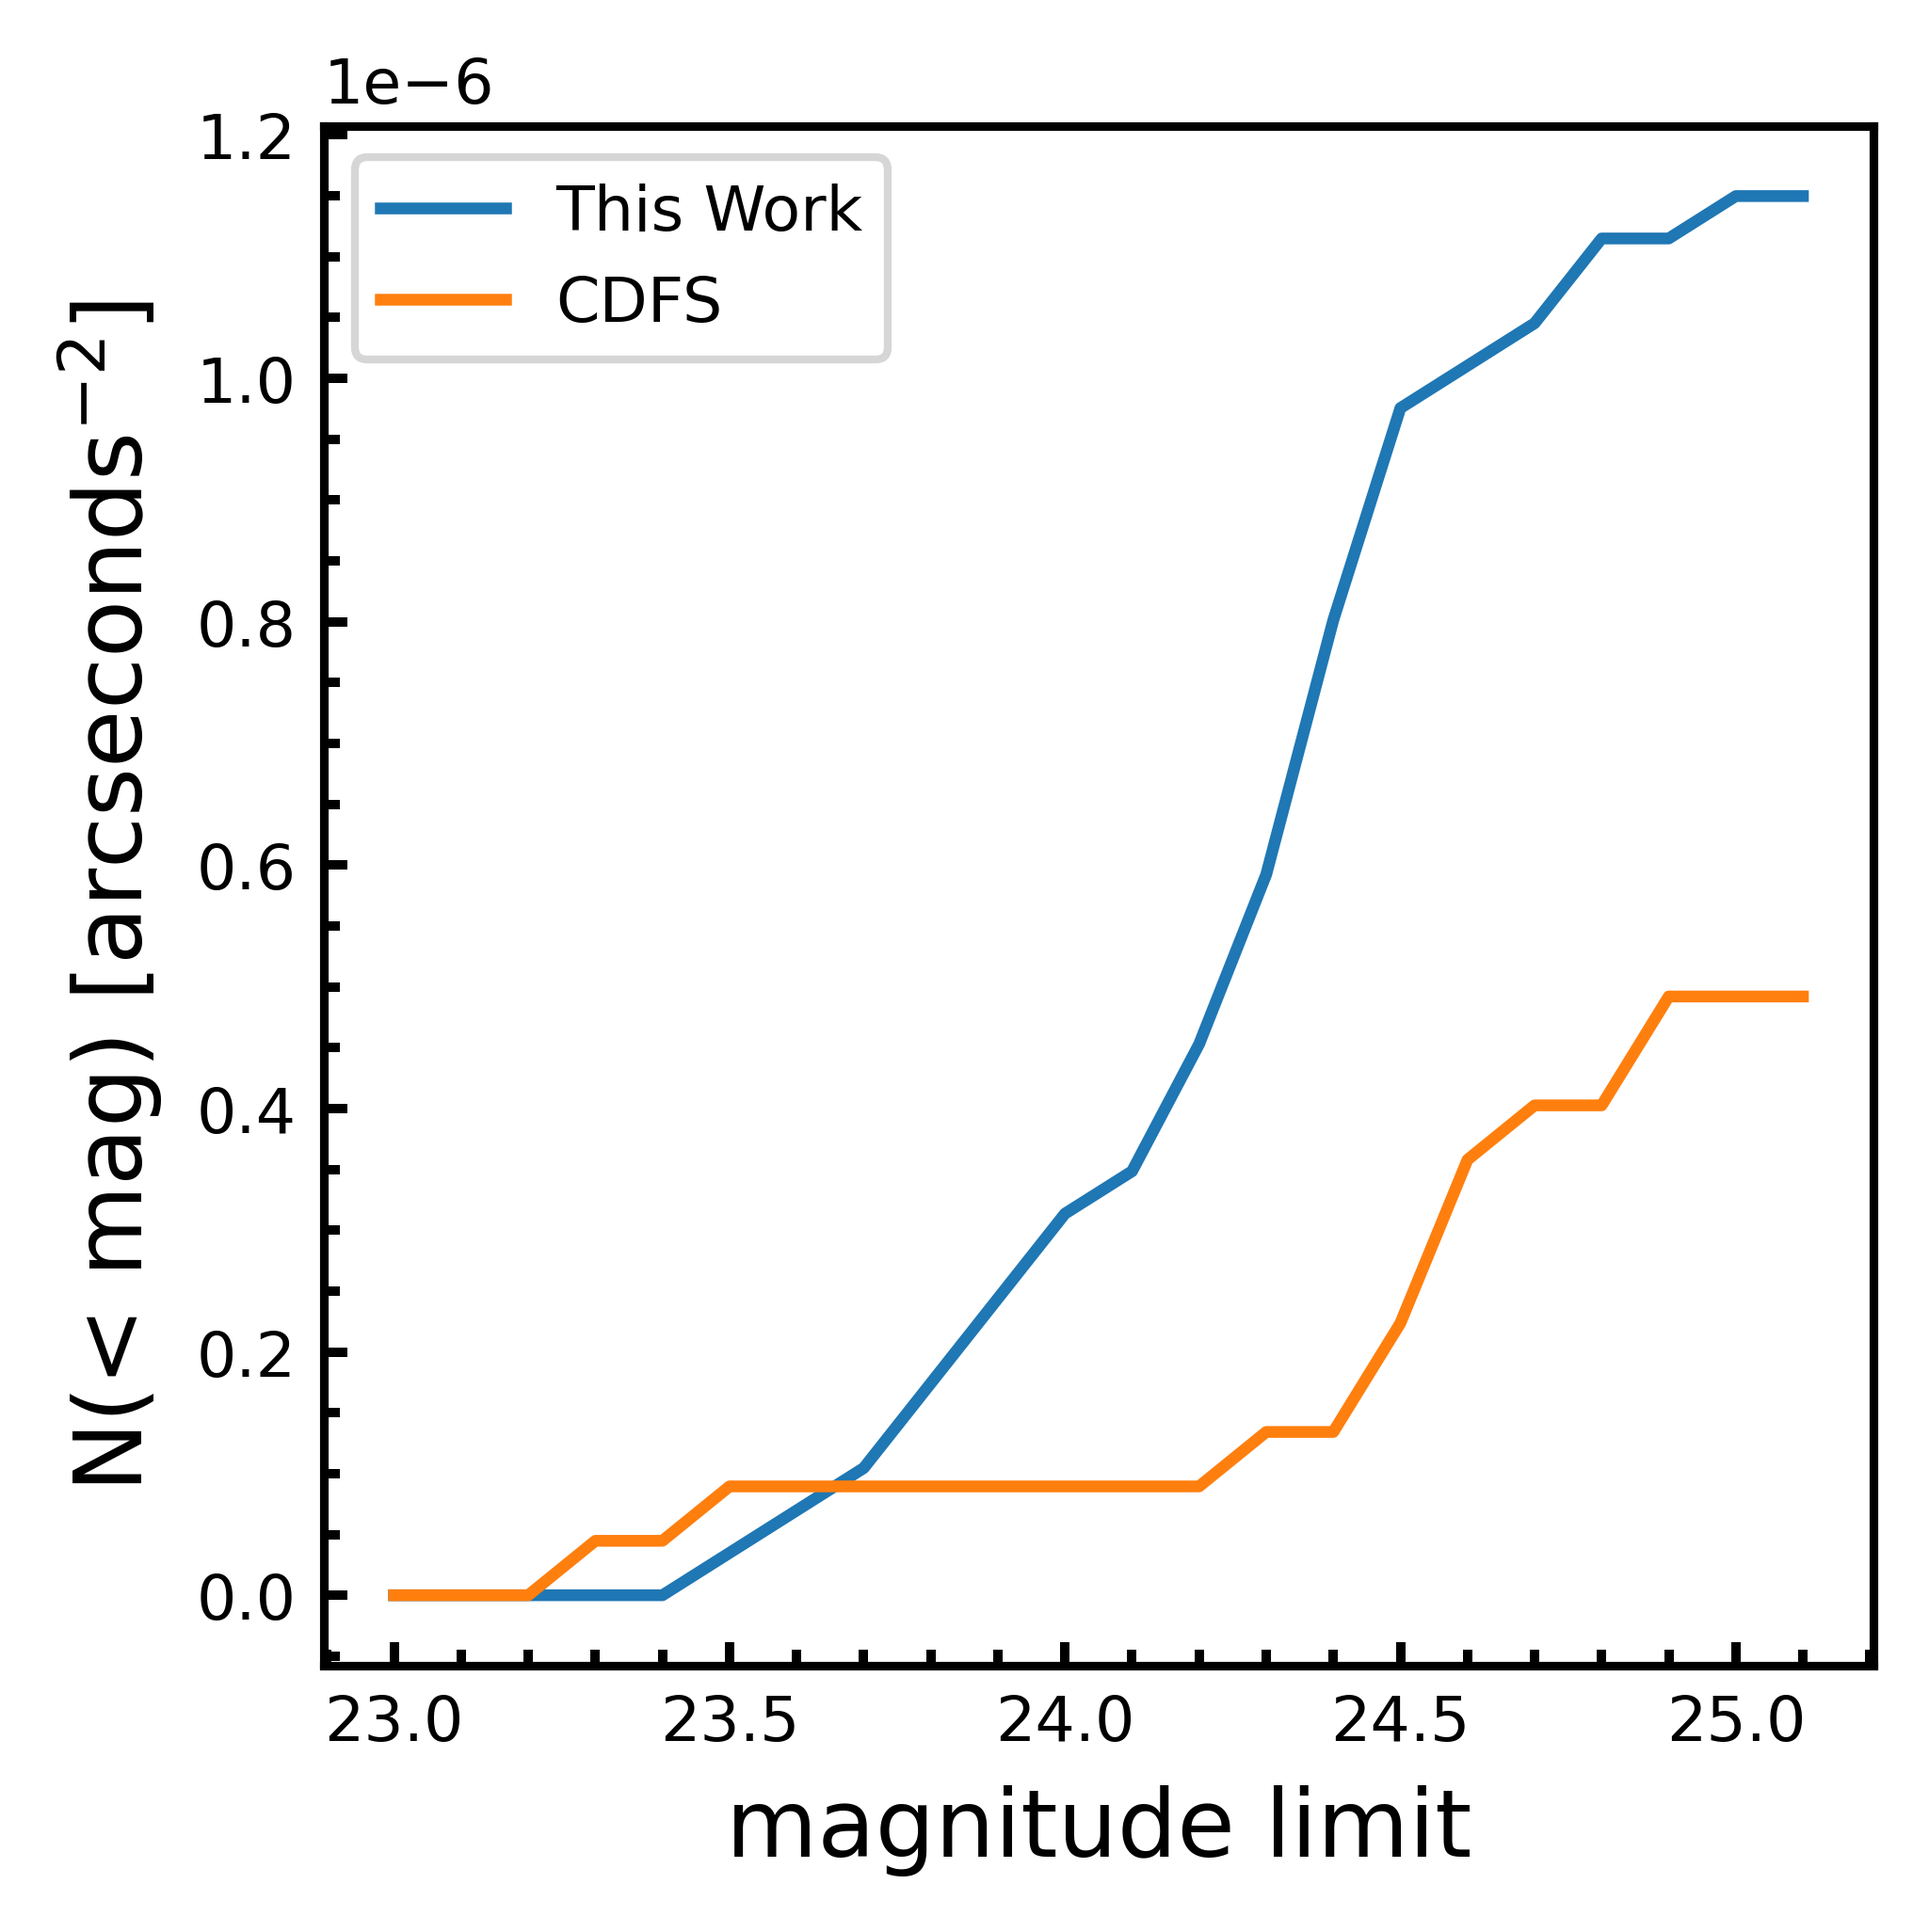
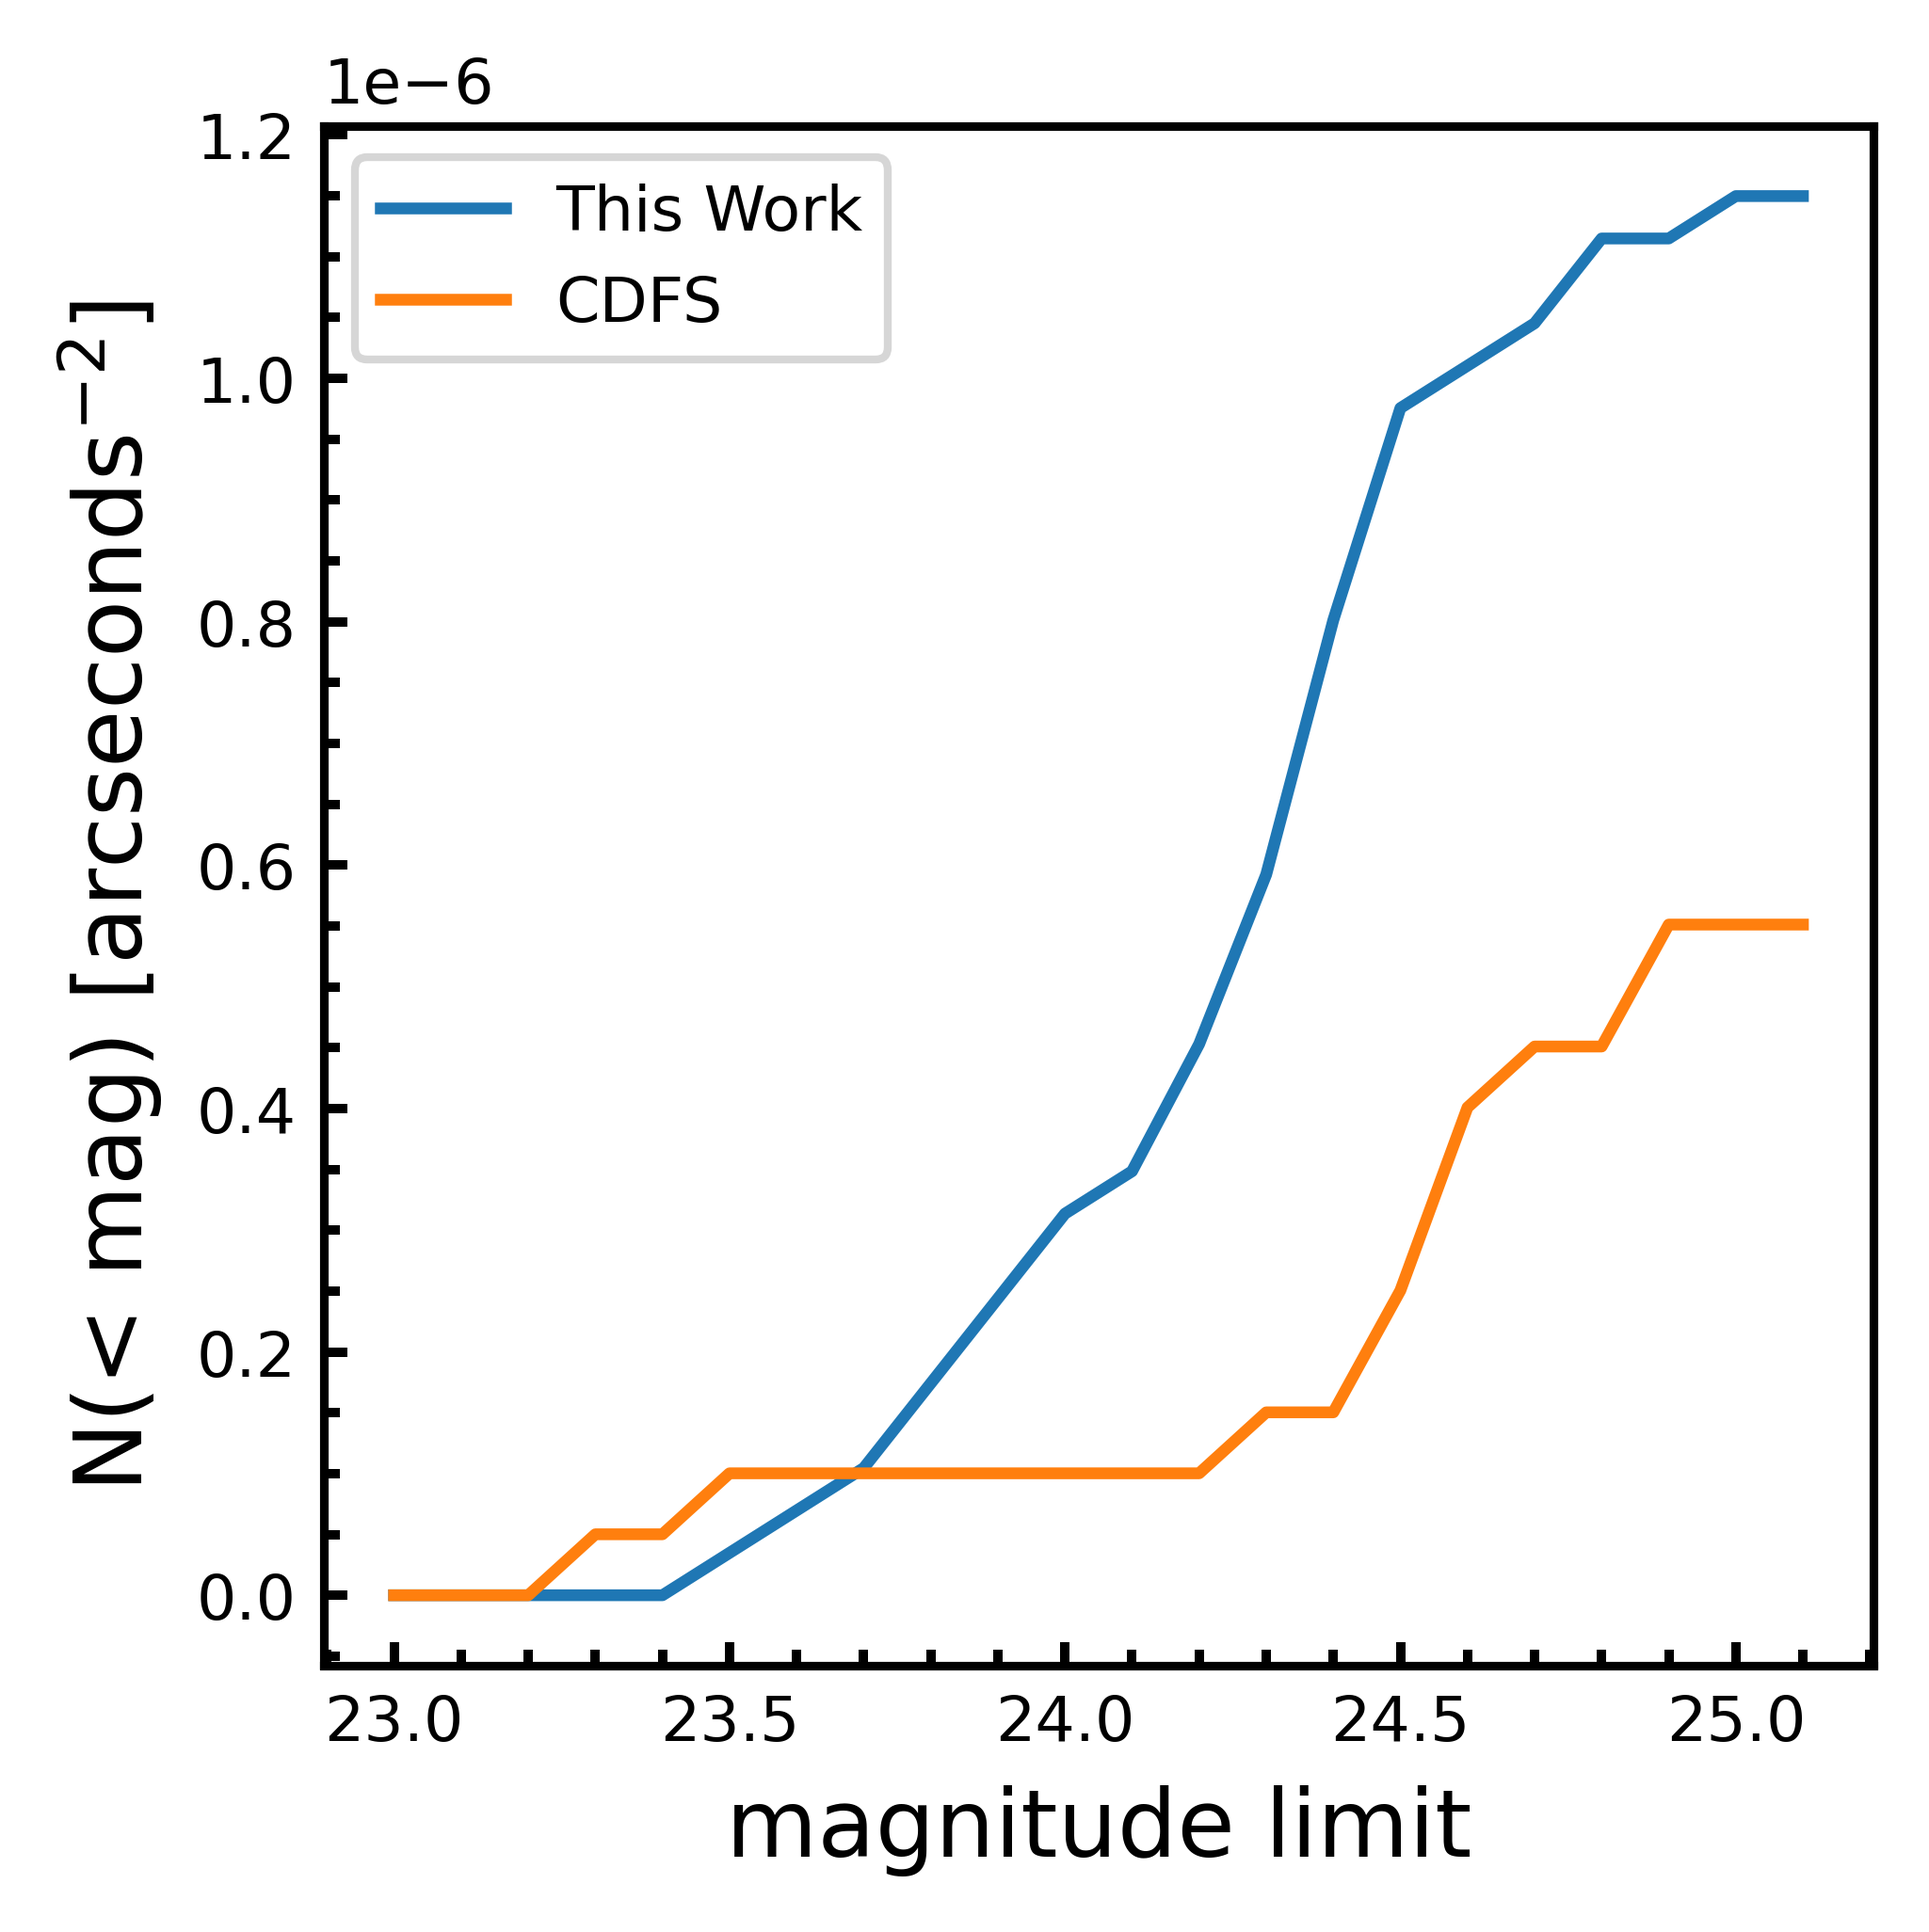
Updated the number counts.

Changed region(s): [[0.2811, 0.6858, 0.7184, 0.8105], [0.7184, 0.4676, 0.937, 0.6858]]

diff --git a/plot_cumulative_eduardo.py b/plot_cumulative_eduardo.py
@@ -5,8 +5,10 @@ Eduardo and Chira in 2013 and 2017.
 import numpy as np
 import pylab as plt
 from astropy.coordinates import SkyCoord
+from astropy.cosmology import FlatLambdaCDM
 import astropy.units as u
 from pandas import DataFrame
+from astropy.io import fits
 
 from plot_cumulative import cross_match_to_sexcat, add_ab_mags
 from sex_catalog import SExtractorCat
@@ -15,8 +17,15 @@ from zero_points_cdfs import zero_points_cdfs
 from plotting import start_plot, end_plot
 
 
+RA_QSO = (23 + (48/60) + (33.34/3600)) * (360/24) * u.deg
+DEC_QSO = (30 + (54/60) + (10.0/3600)) * -1 *u.deg
+qso_position = SkyCoord(ra = RA_QSO, dec = DEC_QSO)
+cdfs_hdu = fits.open('CDFS_MASK.fits')
+pix_scale = cdfs_hdu[0].header['PC2_2'] * 3600 #arcseconds
+
+
 INNER_AREA_OF_SUPRESSION = 5487762.05698824
-CDFS_AREA = 22355466 # Arcseconds
+CDFS_AREA = len(np.where(cdfs_hdu[0].data == 1)[0]) * (pix_scale**2) # Arcseconds
 DECAM_AREA = 2.87e7 # Arcseconds 23212237.94301176  #The area minus the inner region.
 IMACS_AREA = 5.01046e6 # Arcseconds
 
@@ -26,7 +35,37 @@ INFILE_CDFS = 'candidates_cdfs_e.txt'
 SEX_CDFS = '../CDFS_LAGER/n964_cdfs.cat'
 
 ra_us, dec_us = np.loadtxt(INFILE_US, unpack=True)
+c = SkyCoord(ra=ra_us*u.deg, dec = dec_us*u.deg)
+distances_to_quasar = c.separation(qso_position)
 ra_cdfs, dec_cdfs = np.loadtxt(INFILE_CDFS, unpack=True)
+
+REDSHIFT_QSO = 6.9
+COSMO = FlatLambdaCDM(H0=70, Om0=0.3)
+ARCSEC_PER_KPC = COSMO.arcsec_per_kpc_comoving(REDSHIFT_QSO)
+DEG_PER_MPC = ARCSEC_PER_KPC.to(u.deg / u.Mpc)
+inner_region_distance = DEG_PER_MPC * 75 * u.Mpc
+results = distances_to_quasar < inner_region_distance
+inner = len(np.where(results ==True)[0])
+outer = len(np.where(results == False)[0])
+inner_area = (inner_region_distance.to(u.arcsec) **2) * np.pi
+outer_area = 23212237.94301176
+
+
+
+
+#Printing values
+print('CDFS density [arcseconds ^{-2}]: ', len(ra_cdfs)/CDFS_AREA)
+print('our density [arcseconds ^{-2})]: ', len(ra_us)/DECAM_AREA)
+print('Ratio: ', (len(ra_us)/DECAM_AREA)/(len(ra_cdfs)/CDFS_AREA))
+print('-----------------------------')
+print('Inner 75cMpc is:')
+print('Density[arcseconds ^{-2})]: ', inner/inner_area.value)
+print('Ratio: ', (inner/inner_area.value)/(len(ra_cdfs)/CDFS_AREA))
+print('-----------------------------')
+print('Outer 75 cMpc')
+print('Density[arcseconds ^{-2})]: ', outer/23212237.94301176)
+print('Ratio: ', (outer/23212237.94301176)/(len(ra_cdfs)/CDFS_AREA))
+print('-----------------------------')
 
 our_cat = cross_match_to_sexcat(ra_us, dec_us, SExtractorCat(SEX_US))
 cdfs_cat = cross_match_to_sexcat(ra_cdfs, dec_cdfs, SExtractorCat(SEX_CDFS))
@@ -50,4 +89,3 @@ end_plot('plots/cummulative_eduardo.png')
 start_plot('magnitdue limit', 'Normalized-Count Ratio')
 plt.plot(limits, (np.array(our_counts) / DECAM_AREA)/(np.array(cdfs_counts) / CDFS_AREA))
 end_plot('plots/eduardo_ratio.png')
-

diff --git a/make_masked_fits_files.py b/make_masked_fits_files.py
@@ -116,7 +116,7 @@ if __name__ == '__main__':
     decam_mask = decam_region.to_mask()
     decam_real_mask = decam_mask.to_image(hdu[0].data.shape)
     print('WE DID IT')
-    
+
     print('Adding everything together')
     final_mask = final_mask * decam_real_mask
     print('JUST NEED TO PLOT')
